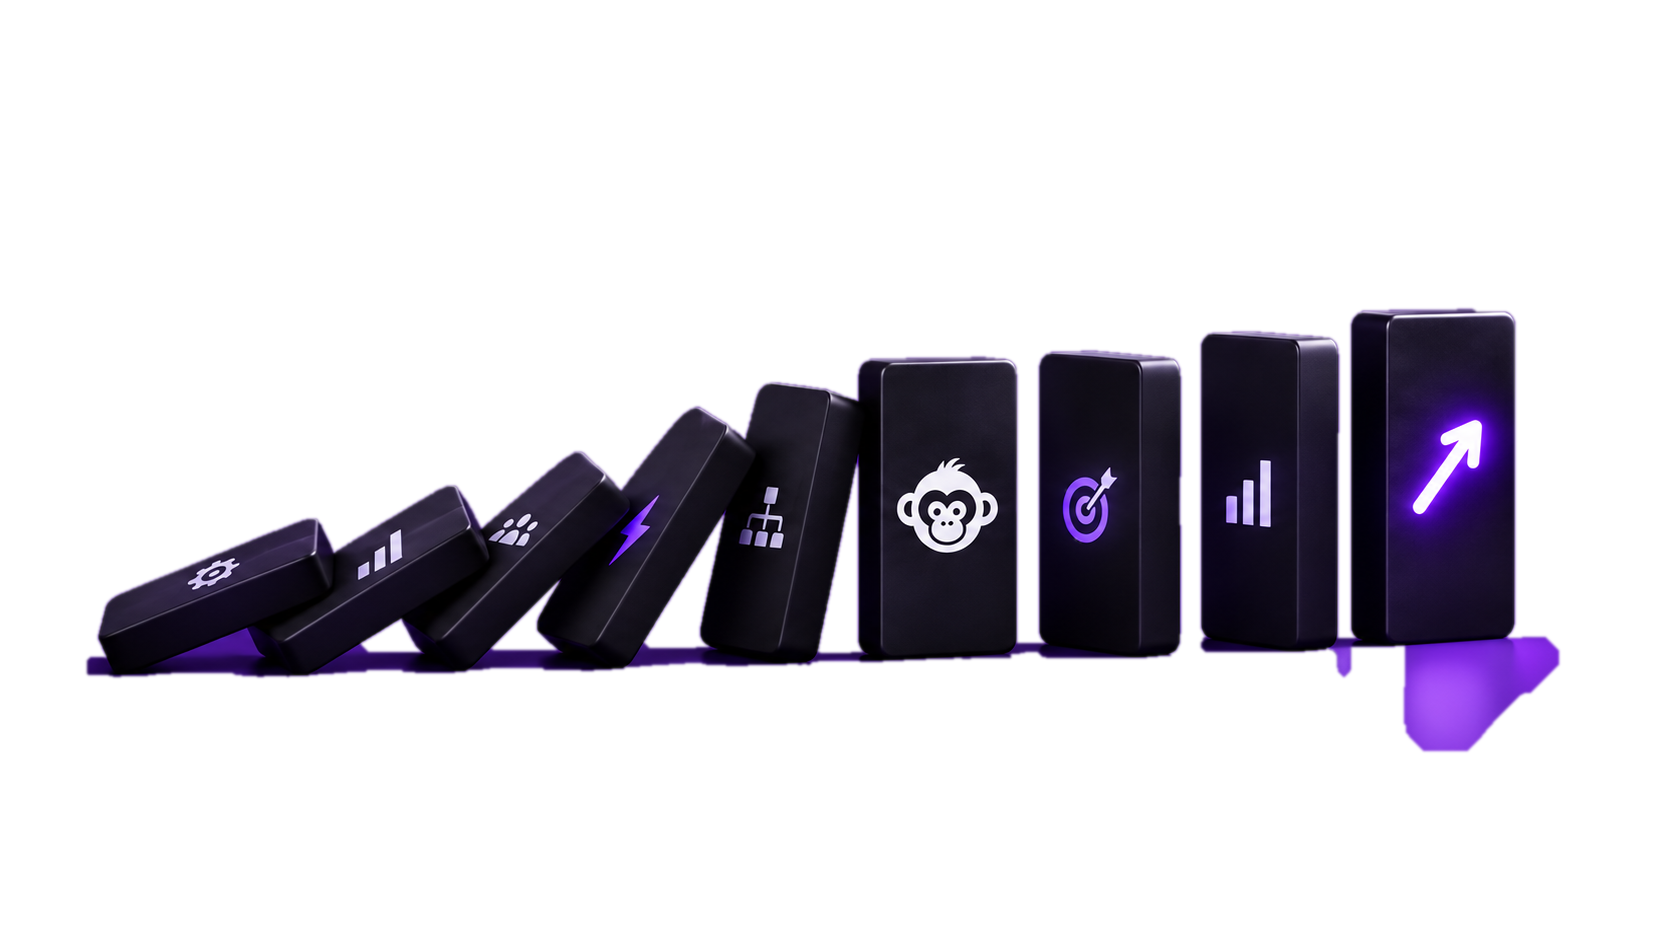
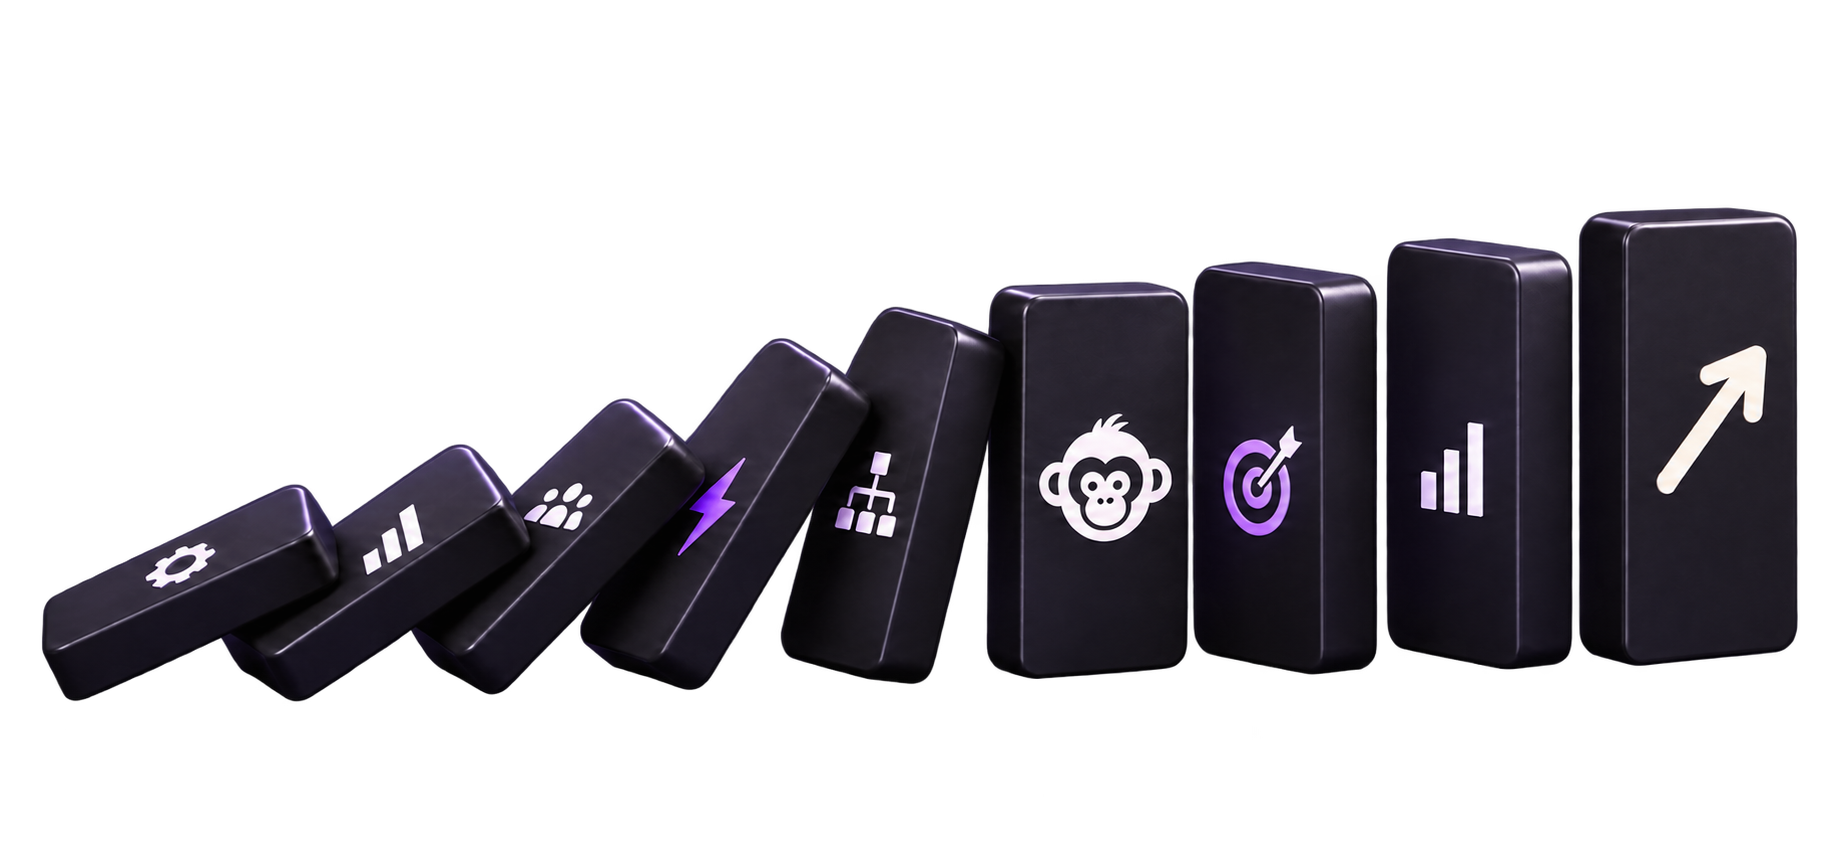
feat: ajusta imagem hero

Changed region(s): [[0.0, 0.2438, 0.9952, 0.823]]

diff --git a/src/features/home/SecaoHero.tsx b/src/features/home/SecaoHero.tsx
@@ -2,6 +2,7 @@ import Image from 'next/image'
 import Link from 'next/link'
 import Icone from '@/components/Icone'
 import { criarLinkHero } from '@/utils/whatsapp'
+import heroDominos from '../../../public/images/hero-dominos.webp'
 
 export default function SecaoHero() {
   return (
@@ -20,7 +21,7 @@ export default function SecaoHero() {
           <p className="orientacao-hero">Conte onde sua rotina trava. A gente desenha a solução.</p>
         </div>
         <div className="arte-hero">
-          <Image src="/images/hero-dominos.webp" alt="" width={1672} height={941} priority
+          <Image src={heroDominos} alt="" priority
             sizes="(max-width: 480px) calc(100vw - 40px), (max-width: 820px) 430px, (max-width: 1200px) 50vw, 600px" />
         </div>
       </div>
